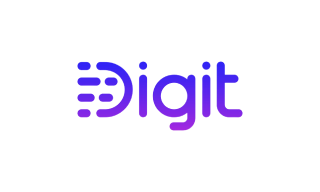
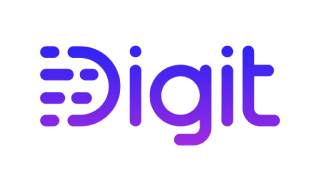
Add docaposte sponsor and info (#43)
* Add docaposte sponsor

* fix: images size

---------

Changed region(s): [[0.125, 0.2188, 0.875, 0.7812]]

diff --git a/src/app/events/[slug]/sponsors.tsx b/src/app/events/[slug]/sponsors.tsx
@@ -9,7 +9,6 @@ import {
   DialogDescription,
   DialogFooter,
   DialogHeader,
-  DialogTitle,
   DialogTrigger,
 } from "@/components/ui/dialog";
 import { ICONS } from "@/components/icons";
@@ -40,7 +39,7 @@ async function SponsorImage(
 
   return (
     <Dialog>
-      <DialogTrigger> {content}</DialogTrigger>
+      <DialogTrigger>{content}</DialogTrigger>
       <DialogContent className="max-h-[80vh] w-full overflow-y-auto p-0 text-black">
         <DialogHeader>
           <Image
@@ -49,6 +48,7 @@ async function SponsorImage(
             alt={sponsor.image.alt}
             width={320}
             height={192}
+            quality={100}
           />
           <div className="relative flex min-h-[25vh] flex-1 flex-col overflow-hidden">
             <DialogDescription className="absolute inset-0 overflow-y-auto px-4 py-2">
